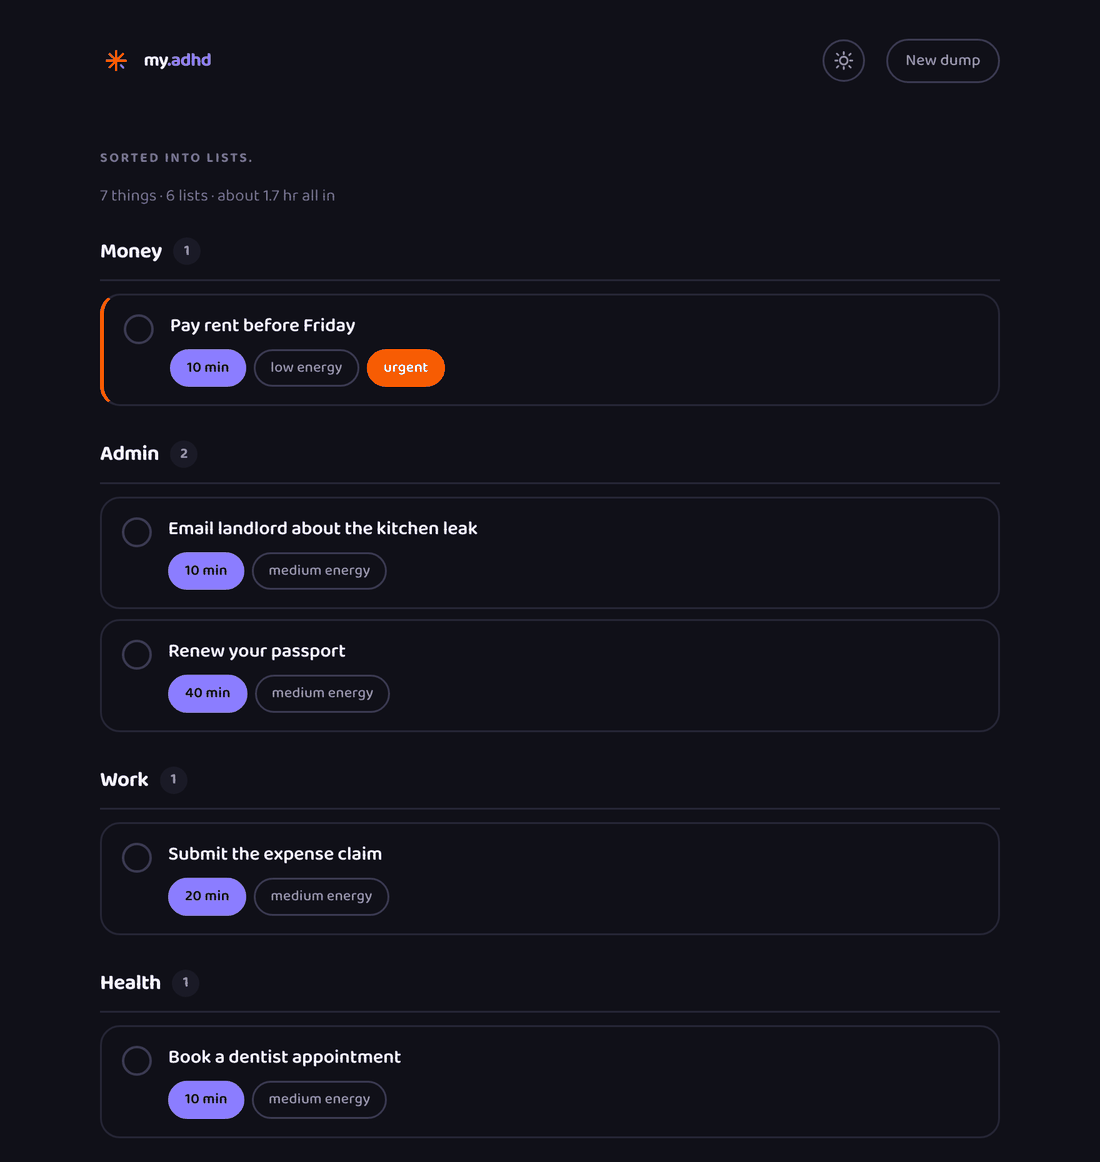
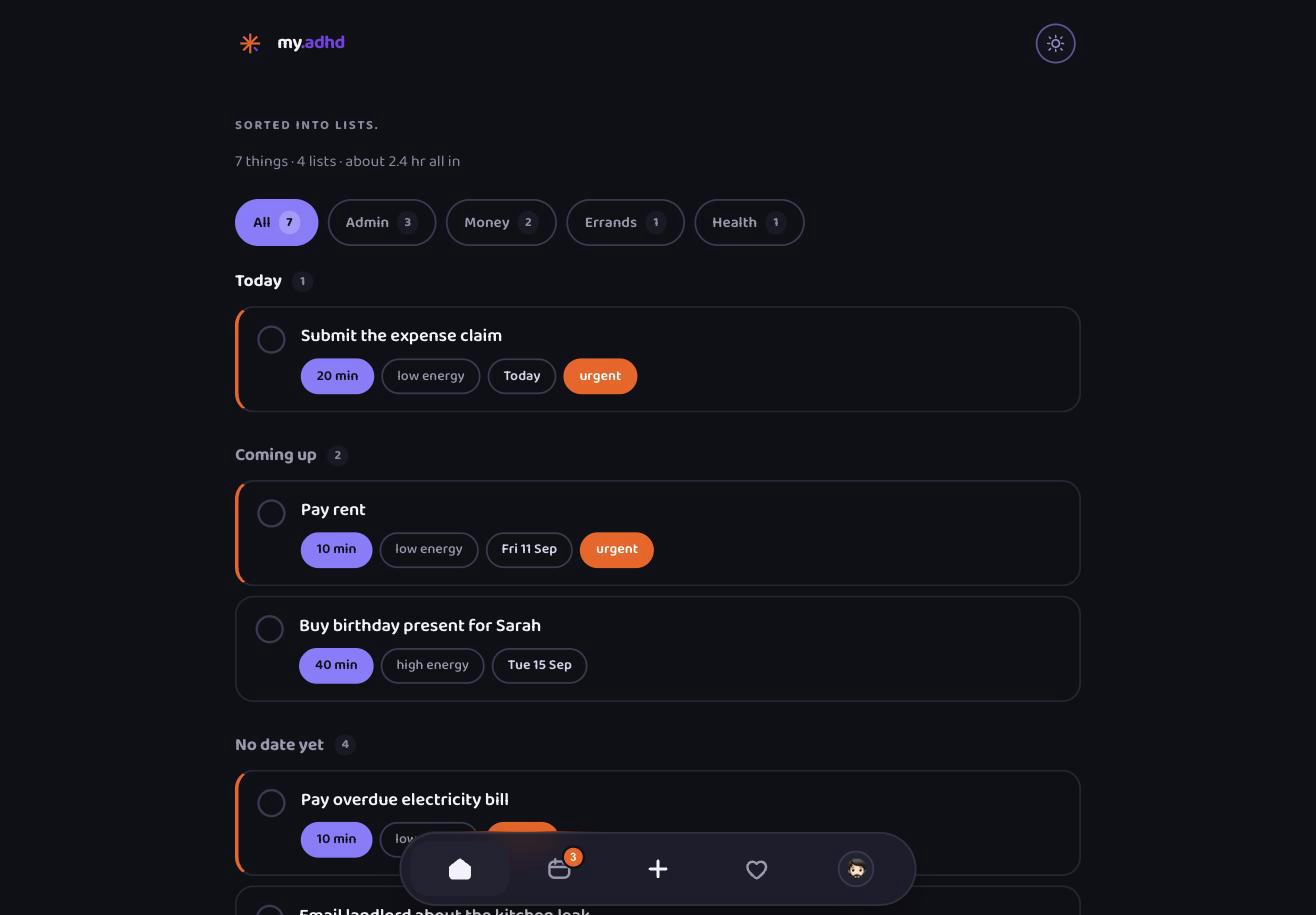
docs: retake the screenshots, against the app as it is now
The old three were from 23 August and showed tasks under Money / Admin /
Work / Health — the shape bbb4e94 and dc7baf5 replaced three days later.
3bc4252 admitted that in prose; this replaces the pictures.

Captured against myadhd.my, signed out, from one seven-line dump. Real
model output again: seven things, four lists, and Today / Coming up / No
date yet. Late is absent because nothing was late on the day, and the
README now says so rather than leaving a reader to wonder where the
fourth heading went.

The dump shot has gained the welcome meme and the View my lists button,
neither of which existed in August. Both alt texts were describing the old
layout and now describe what is in frame.

Also fixes a caption that counted: "the single orange urgent pill" is two
in this dump. Reworded to the point it was making — how little orange
there is — which does not need a number to survive.

Claude-Session: https://claude.ai/code/session_01AThF7RQHyKkC1Wi4yT3QBP

diff --git a/README.md b/README.md
@@ -85,24 +85,32 @@ than the user has — which belongs to a "just one thing" focus screen.
 ## Screens
 
 Real output — the lists below are what the model returned for one dump of
-seven things, not mock-ups.
+seven things, not mock-ups. Taken against myadhd.my on 9 September from this
+dump, typed as one paragraph of seven lines:
 
-**They are also out of date.** These were taken on 23 August, before the
-lists moved to deadline headings and before the mark settled on one violet,
-so they show tasks under *Money / Admin / Work / Health* — a shape the app no
-longer has. Kept until they are retaken, because a stale photograph of the
-real thing still says more than nothing.
+> the electricity bill was due yesterday · submit the expense claim today ·
+> pay rent before friday · email the landlord about the kitchen leak · renew
+> my passport · book a dentist appointment · buy a birthday present for sarah
+> next tuesday
+
+Seven things, four lists, and three of the four headings — nothing was late
+on the day, so **Late** does not appear. The model kept the two dates it was
+given as dates (`Fri 11 Sep`, `Tue 15 Sep`), read "today" as today, and left
+"was due yesterday" undated but urgent, which is the honest reading: the bill
+is overdue, not scheduled.
 
 | Dump | Lists |
 |---|---|
-| <img src="docs/screen-dump.png" alt="The dump screen: one textarea and a Clear my head button" /> | <img src="docs/screen-lists.png" alt="The lists screen: tasks grouped into Money, Admin, Work, Health" /> |
+| <img src="docs/screen-dump.png" alt="The dump screen: a welcome meme, one textarea, a Clear my head button, and View my lists" /> | <img src="docs/screen-lists.png" alt="The lists screen: a category filter row, then tasks under Today, Coming up and No date yet" /> |
 
 Same screen on the dark theme, via the header toggle:
 
 <img src="docs/screen-lists-dark.png" alt="The lists screen in dark mode" width="520" />
 
-Note the single orange **urgent** pill on the rent task. Vivid Orange is
-reserved for *act now* — one thing at a time, or it stops meaning anything.
+Note how little orange there is: two **urgent** pills out of seven tasks, and
+nothing else on the page competing for the colour. Vivid Orange is *act now*
+and the mark, and nothing else — spend it on a third thing and it stops
+meaning anything.
 
 **Every screen and every route between them:**
 [screen map](https://claude.ai/code/artifact/447d9c4a-f7f2-4249-8434-f640bc49a25b)
